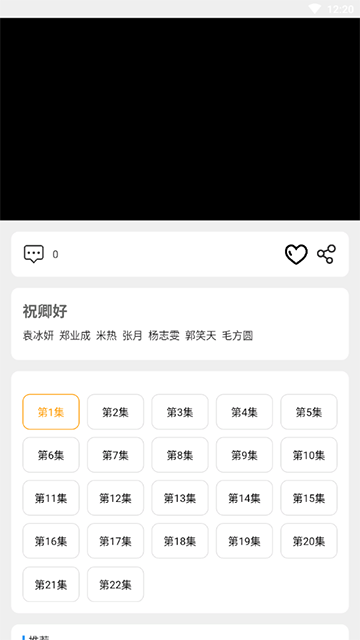
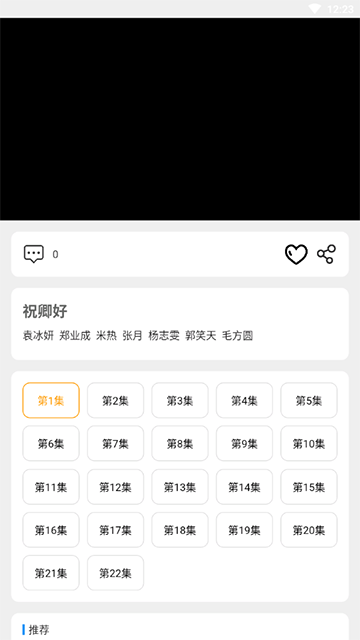
修改播放页面样式

diff --git a/lib/pages/PlayerPage.dart b/lib/pages/PlayerPage.dart
@@ -417,7 +417,7 @@ class _PlayerPageState extends State<PlayerPage> {
                 decoration: ThemeStyle.boxDecoration,
                 padding: ThemeStyle.padding,
                 margin: ThemeStyle.margin,
-                child: Column(children: [tabs, SizedBox(height: Size.containerPadding), series]));
+                child: Column(children: [tabs, SizedBox(height: playGroupList.length > 1 ? Size.containerPadding : 0), series]));
           }
         });
   }
